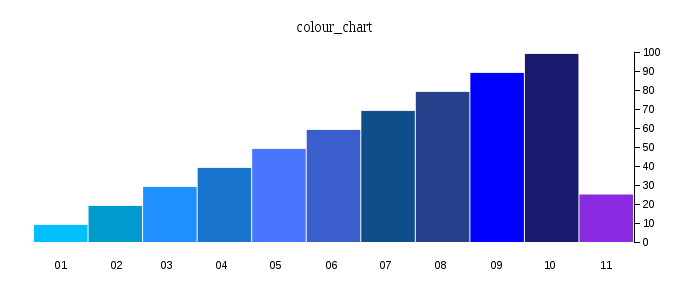
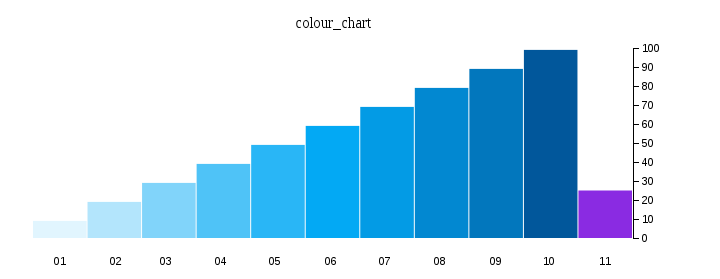
updating colour palette

diff --git a/site/graph.js b/site/graph.js
@@ -30,39 +30,44 @@ var ypadding = 40 + title_height + title_padding;
  *     ...
  *     colour_range[8] is for 80 .. 89 %
  *     colour_range[9] is for 90 ..100 %
+ *
+ * currently using the light blue palette from
+ *  http://www.google.com/design/spec/style/color.html#color-color-palette
+ *
+ *  FIXME I do really like this blue...
+ *  [  0,   0, 255],
  */
 var colour_range = [
     /* 0 =  0 ..   9 % */
-    [  0, 191, 255],
+    [225, 245, 254],
 
     /* 1 = 10 ..  19 % */
-    [  0, 154, 205],
+    [179, 229, 252],
 
     /* 2 = 20 ..  29 % */
-    [ 30, 144, 255],
+    [129, 212, 250],
 
     /* 3 = 30 ..  39 % */
-    [ 24, 116, 205],
+    [79, 195, 247],
 
     /* 4 = 40 ..  49 % */
-    [ 72, 118, 255],
+    [41, 182, 246],
 
     /* 5 = 50 ..  59 % */
-    [ 58,  95, 205],
+    [3, 169, 244],
 
     /* 6 = 60 ..  69 % */
-    [ 16,  78, 139],
+    [3, 155, 229],
 
     /* 7 = 70 ..  79 % */
-    [ 39,  64, 139],
+    [2, 136, 209],
 
     /* 8 = 80 ..  89 % */
-    // FIXME this is my favourite colour
-    // so I want things around this
-    [  0,   0, 255],
+    [2, 119, 189],
 
     /* 9 = 90 .. 100 % */
-    [ 25,  25, 112],
+    [1, 87, 155],
+
 ];
 // default colour should never actually be used
 var colour_default = [0, 0, 0];

diff --git a/README.md b/README.md
@@ -59,36 +59,35 @@ in site/graph.js at the top we have
      */
     var colour_range = [
         /* 0 =  0 ..   9 % */
-        [  0, 191, 255],
+        [225, 245, 254],
 
         /* 1 = 10 ..  19 % */
-        [  0, 154, 205],
+        [179, 229, 252],
 
         /* 2 = 20 ..  29 % */
-        [ 30, 144, 255],
+        [129, 212, 250],
 
         /* 3 = 30 ..  39 % */
-        [ 24, 116, 205],
+        [79, 195, 247],
 
         /* 4 = 40 ..  49 % */
-        [ 72, 118, 255],
+        [41, 182, 246],
 
         /* 5 = 50 ..  59 % */
-        [ 58,  95, 205],
+        [3, 169, 244],
 
         /* 6 = 60 ..  69 % */
-        [ 16,  78, 139],
+        [3, 155, 229],
 
         /* 7 = 70 ..  79 % */
-        [ 39,  64, 139],
+        [2, 136, 209],
 
         /* 8 = 80 ..  89 % */
-        // FIXME this is my favourite colour
-        // so I want things around this
-        [  0,   0, 255],
+        [2, 119, 189],
 
         /* 9 = 90 .. 100 % */
-        [ 25,  25, 112],
+        [1, 87, 155],
+
     ];
 
     // default colour should never actually be used
@@ -107,10 +106,7 @@ if you change the above colouring values and then run `make generate` your brows
 
 ![colour chart](https://raw.githubusercontent.com/mkfifo/open-source-stats/master/resources/colour_chart.png )
 
-I am not yet happy with these colours, I would love help tweaking them!
-
-I particularly like this blue
-![ideal blue](https://raw.githubusercontent.com/mkfifo/open-source-stats/master/resources/ideal_blue.png )
+These colours are currently based on the 'light blue' palette from http://www.google.com/design/spec/style/color.html#color-color-palette
 
 
 deps
